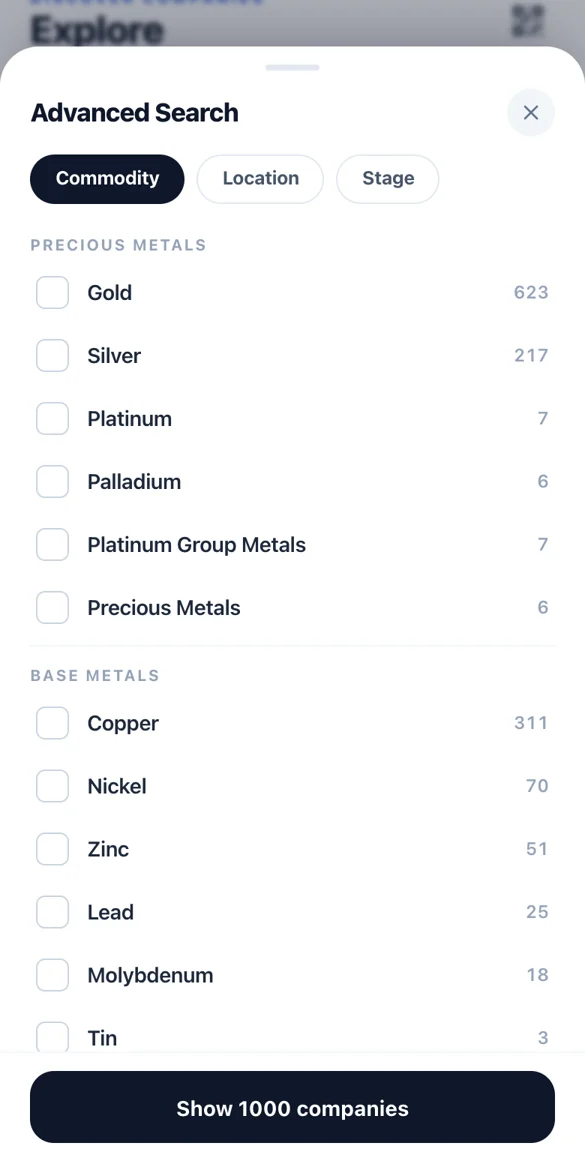
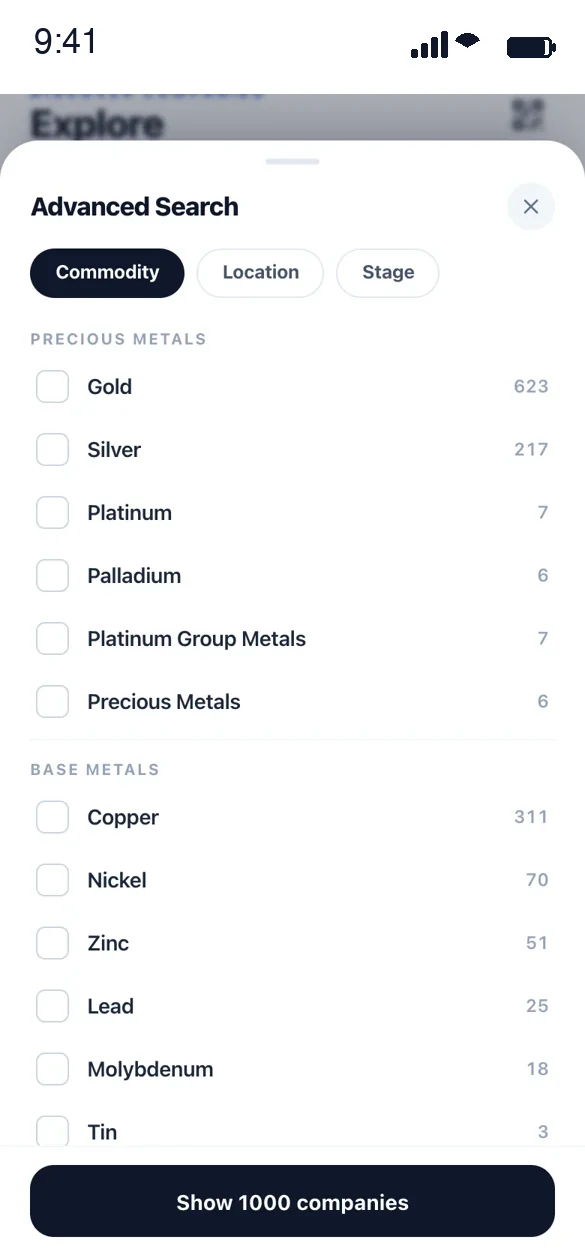
Marketing: bake status bar into app shots at device aspect (no cropping)
Each screenshot now carries a rendered status bar and sits at the true
9:19.3 device aspect, so AppShot fills the phone edge-to-edge with no crop.

diff --git a/src/marketing/ui/AppUI.jsx b/src/marketing/ui/AppUI.jsx
@@ -74,17 +74,16 @@ export function Fit({ base = 375, children, style }) {
 // static, non-navigable preview of one screen. This is the accurate way to show
 // the app on the sales page: a screenshot of the app IS the app.
 export function AppShot({ name, position = "top", style }) {
+  // The shots are captured at the real device aspect (status bar baked in), so
+  // they fill the phone edge-to-edge with no cropping.
   return (
-    <div style={{ position: "absolute", inset: 0, overflow: "hidden", background: "#fff", display: "flex", flexDirection: "column", ...style }}>
-      <StatusBar />
-      <div style={{ position: "relative", flex: 1, minHeight: 0 }}>
-        <img
-          src={`/marketing/appshots/${name}.webp`}
-          alt=""
-          loading="lazy"
-          style={{ position: "absolute", inset: 0, width: "100%", height: "100%", objectFit: "cover", objectPosition: position }}
-        />
-      </div>
+    <div style={{ position: "absolute", inset: 0, overflow: "hidden", background: "#fff", ...style }}>
+      <img
+        src={`/marketing/appshots/${name}.webp`}
+        alt=""
+        loading="lazy"
+        style={{ width: "100%", height: "100%", objectFit: "cover", objectPosition: position }}
+      />
     </div>
   );
 }
